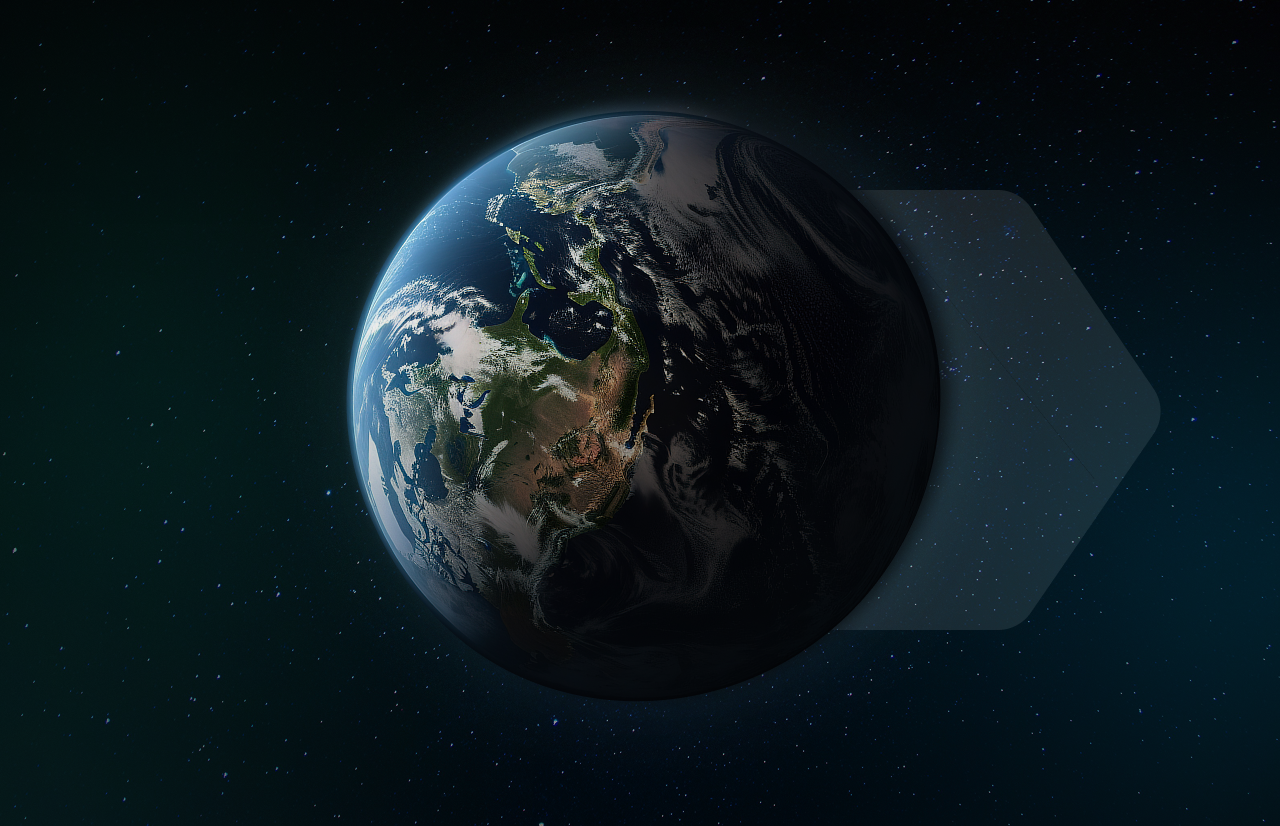
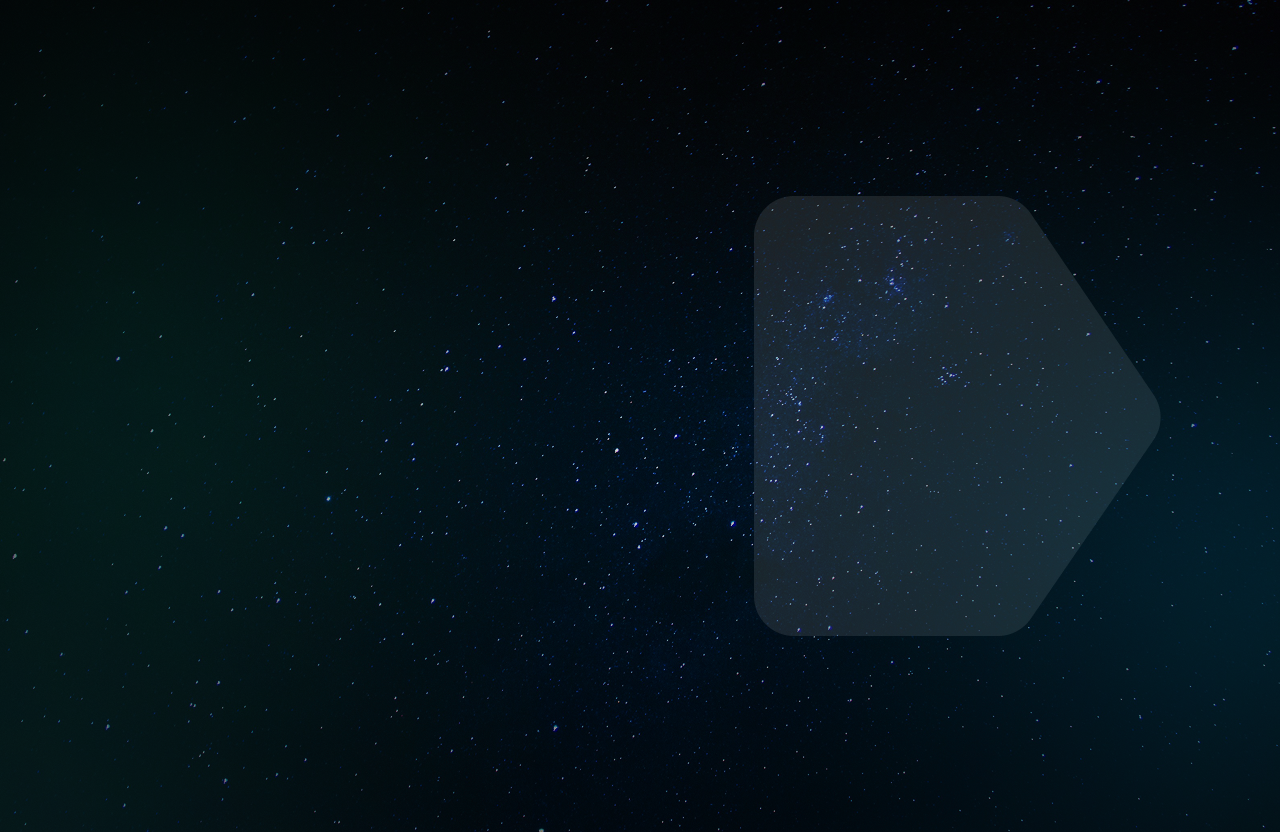
More testing

Changed region(s): [[0.25, 0.1211, 0.7812, 0.7869]]

diff --git a/dat257/app/components/Navbar.js b/dat257/app/components/Navbar.js
@@ -13,10 +13,10 @@ export default function Navbar() {
       {/* Desktop Navigation */}
       <nav className="max-w-7xl mx-auto px-4 sm:px-6 lg:px-8 py-4">
         <div className="flex justify-end items-center space-x-8">
-          {/* Home link with icon */}
+          {/* Home link with icon - Uppdaterad med scale-effekt */}
           <Link 
             href="/home" 
-            className="flex items-center hover:text-green-600 transition-colors"
+            className="flex items-center hover:scale-105 transition-transform duration-300"
             style={linkStyle}
           >
             <Image
@@ -24,13 +24,14 @@ export default function Navbar() {
               alt="Home"
               width={24}
               height={24}
-              className="mr-2"
+              className="mr-2 hover:scale-105 transition-transform duration-300"
             />
           </Link>
           
+          {/* Länkar med scale-effekt */}
           <Link
             href="/about"
-            className="hover:text-green-600 transition-colors"
+            className="hover:scale-105 transition-transform duration-300"
             style={linkStyle}
           >
             About
@@ -38,7 +39,7 @@ export default function Navbar() {
           
           <Link
             href="/faq"
-            className="hover:text-green-600 transition-colors"
+            className="hover:scale-105 transition-transform duration-300"
             style={linkStyle}
           >
             FAQ
@@ -46,7 +47,7 @@ export default function Navbar() {
           
           <Link
             href="/contact"
-            className="hover:text-green-600 transition-colors"
+            className="hover:scale-105 transition-transform duration-300"
             style={linkStyle}
           >
             Contact
@@ -54,7 +55,7 @@ export default function Navbar() {
         </div>
       </nav>
 
-      {/* Mobile Navigation */}
+      {/* Mobile Navigation (oförändrat) */}
       <nav className="md:hidden bg-white shadow-sm">
         <div className="max-w-7xl mx-auto px-4 sm:px-6 lg:px-8">
           <div className="flex justify-between items-center h-16">
@@ -75,24 +76,24 @@ export default function Navbar() {
         </div>
       </nav>
 
-      {/* Mobile Menu (shown when clicked) */}
+      {/* Mobile Menu (oförändrat) */}
       <div className="md:hidden bg-white border-t">
         <div className="px-2 pt-2 pb-3 space-y-1">
           <Link 
             href="/about" 
-            className="block px-3 py-2 text-gray-700 hover:text-green-600"
+            className="block px-3 py-2 text-gray-700 hover:scale-105 transition-transform duration-300"
           >
             About
           </Link>
           <Link 
             href="/faq" 
-            className="block px-3 py-2 text-gray-700 hover:text-green-600"
+            className="block px-3 py-2 text-gray-700 hover:scale-105 transition-transform duration-300"
           >
             FAQ
           </Link>
           <Link 
             href="/contact" 
-            className="block px-3 py-2 text-gray-700 hover:text-green-600"
+            className="block px-3 py-2 text-gray-700 hover:scale-105 transition-transform duration-300"
           >
             Contact
           </Link>

diff --git a/dat257/app/globals.css b/dat257/app/globals.css
@@ -26,9 +26,134 @@ html, body, #__next {
 }
 
 body {
+  background-color: black;
   overflow-x: hidden;
   background-image: url('/Background.png');
   background-size: cover;
   background-position: center;
   background-repeat: no-repeat;
+}
+
+.hero-container {
+  position: relative;
+  width: 100%;
+  height: 100vh;
+  display: flex;
+  justify-content: center;
+  align-items: center;
+  overflow: hidden;
+}
+
+.text-layer {
+  position: absolute;
+  font-size: clamp(60px, 10vw, 200px);
+  font-family: var(--font-secular-one);
+  top: 17%;
+  left: 50%;
+  transform: translate(-50%, -50%);
+  white-space: nowrap;
+  width: 100%;
+  text-align: center;
+}
+
+.filled {
+  color: #C1E5DF;
+  z-index: 1; /* Behind planet */
+}
+
+.stroked {
+  color: transparent;
+  -webkit-text-stroke: 2px #C1E5DF;
+  z-index: 3; /* In front of planet */
+}
+
+.planet {
+  position: absolute;
+  top: 35%;
+  left: 55%;
+  transform: translate(-50%, -50%);
+  width: min(120vw, 120vh, 1200px);
+  height: auto;
+  aspect-ratio: 1/1;
+  z-index: 2;
+  pointer-events: none;
+}
+
+.button-group {
+  position: absolute;
+  top: 50%;
+  left: 10%;
+  transform: translateY(-50%);
+  display: flex;
+  flex-direction: column;
+  gap: 1rem;
+  z-index: 4;
+}
+
+.impact-text {
+  color: #C1E5DF;
+  font-family: 'Inter', sans-serif;
+  font-size: 25px;
+  text-align: center;
+  margin-bottom: 20px;
+  line-height: 1.4;
+}
+
+.hero-button {
+  padding: 0.75rem 2rem;
+  border-radius: 0.5rem;
+  color: white;
+  font-weight: 500;
+  font-size: 1.125rem;
+  text-align: center;
+  text-decoration: none;
+  transition: all 0.3s ease;
+  border: 2px solid transparent;
+}
+
+.hero-button:hover {
+  border-color: white;
+}
+
+.hero-button.green {
+  background-color: #16a34a;
+}
+
+.hero-button.green:hover {
+  background-color: #15803d;
+}
+
+.hero-button.blue {
+  background-color: #2563eb;
+}
+
+.hero-button.blue:hover {
+  background-color: #1d4ed8;
+}
+
+@media (max-width: 1024px) {
+  .text-layer {
+    font-size: 8rem;
+  }
+  .planet {
+    width: 600px;
+  }
+  .button-group {
+    left: 5%;
+  }
+}
+
+@media (max-width: 768px) {
+  .text-layer {
+    font-size: 5rem;
+  }
+  .planet {
+    width: 400px;
+  }
+  .button-group {
+    position: static;
+    transform: none;
+    align-items: center;
+    margin-top: 2rem;
+  }
 }

diff --git a/dat257/app/components/HeroSection.js b/dat257/app/components/HeroSection.js
@@ -3,23 +3,27 @@ import Link from 'next/link';
 export default function HeroSection() {
   return (
     <main className="flex flex-col items-center justify-center min-h-screen">
-      <div className="container mx-auto text-center py-20">
-      <h1 className="text-[140px] text-[#C1E5DF] mb-6"
-      style={{ fontFamily: 'var(--font-secular-one)' }}>
-      Carbon Compass
-      </h1>
-        <div className="flex gap-4 justify-center">
-          <Link 
-            href="/calculator" 
-            className="bg-green-600 text-white px-8 py-3 rounded-lg hover:bg-green-700"
-          >
+      <div className="hero-container">
+        {/* Filled text behind planet */}
+        <div className="text-layer filled">Carbon Compass</div>
+        
+        {/* Planet image */}
+        <img src="/planet.png" alt="Planet" className="planet" />
+        
+        {/* Stroked text in front of planet */}
+        <div className="text-layer stroked">Carbon Compass</div>
+        
+        {/* Vertical buttons on left side */}
+        <div className="button-group">
+          <div className="impact-text">
+            See the Impact,<br />
+            Make a Change
+          </div>
+          <Link href="/calculator" className="hero-button green">
             Carbon Calculator
           </Link>
-          <Link 
-            href="/map" 
-            className="bg-blue-600 text-white px-8 py-3 rounded-lg hover:bg-blue-700"
-          >
-            View Carbon Map
+          <Link href="/map" className="hero-button blue">
+            Carbon Map
           </Link>
         </div>
       </div>

diff --git a/dat257/app/components/Footer.js b/dat257/app/components/Footer.js
@@ -1,11 +1,10 @@
 export default function Footer() {
-    return (
-      <footer className="bg-transparent text-white p-6 mt-10">
-        <div className="container mx-auto text-center text-gray-600">
-          <p>© {new Date().getFullYear()} CarbonCompass. All rights reserved.</p>
-          <p className="mt-2">Data sourced from World Bank</p>
-        </div>
-      </footer>
-    );
-  }
-  
+  return (
+    <footer className="bg-black p-6">
+      <div className="container mx-auto text-center">
+        <p className="text-[#C1E5DF]">© {new Date().getFullYear()} CarbonCompass. All rights reserved.</p>
+        <p className="mt-2 text-[#C1E5DF]">Data sourced from World Bank</p>
+      </div>
+    </footer>
+  );
+}
